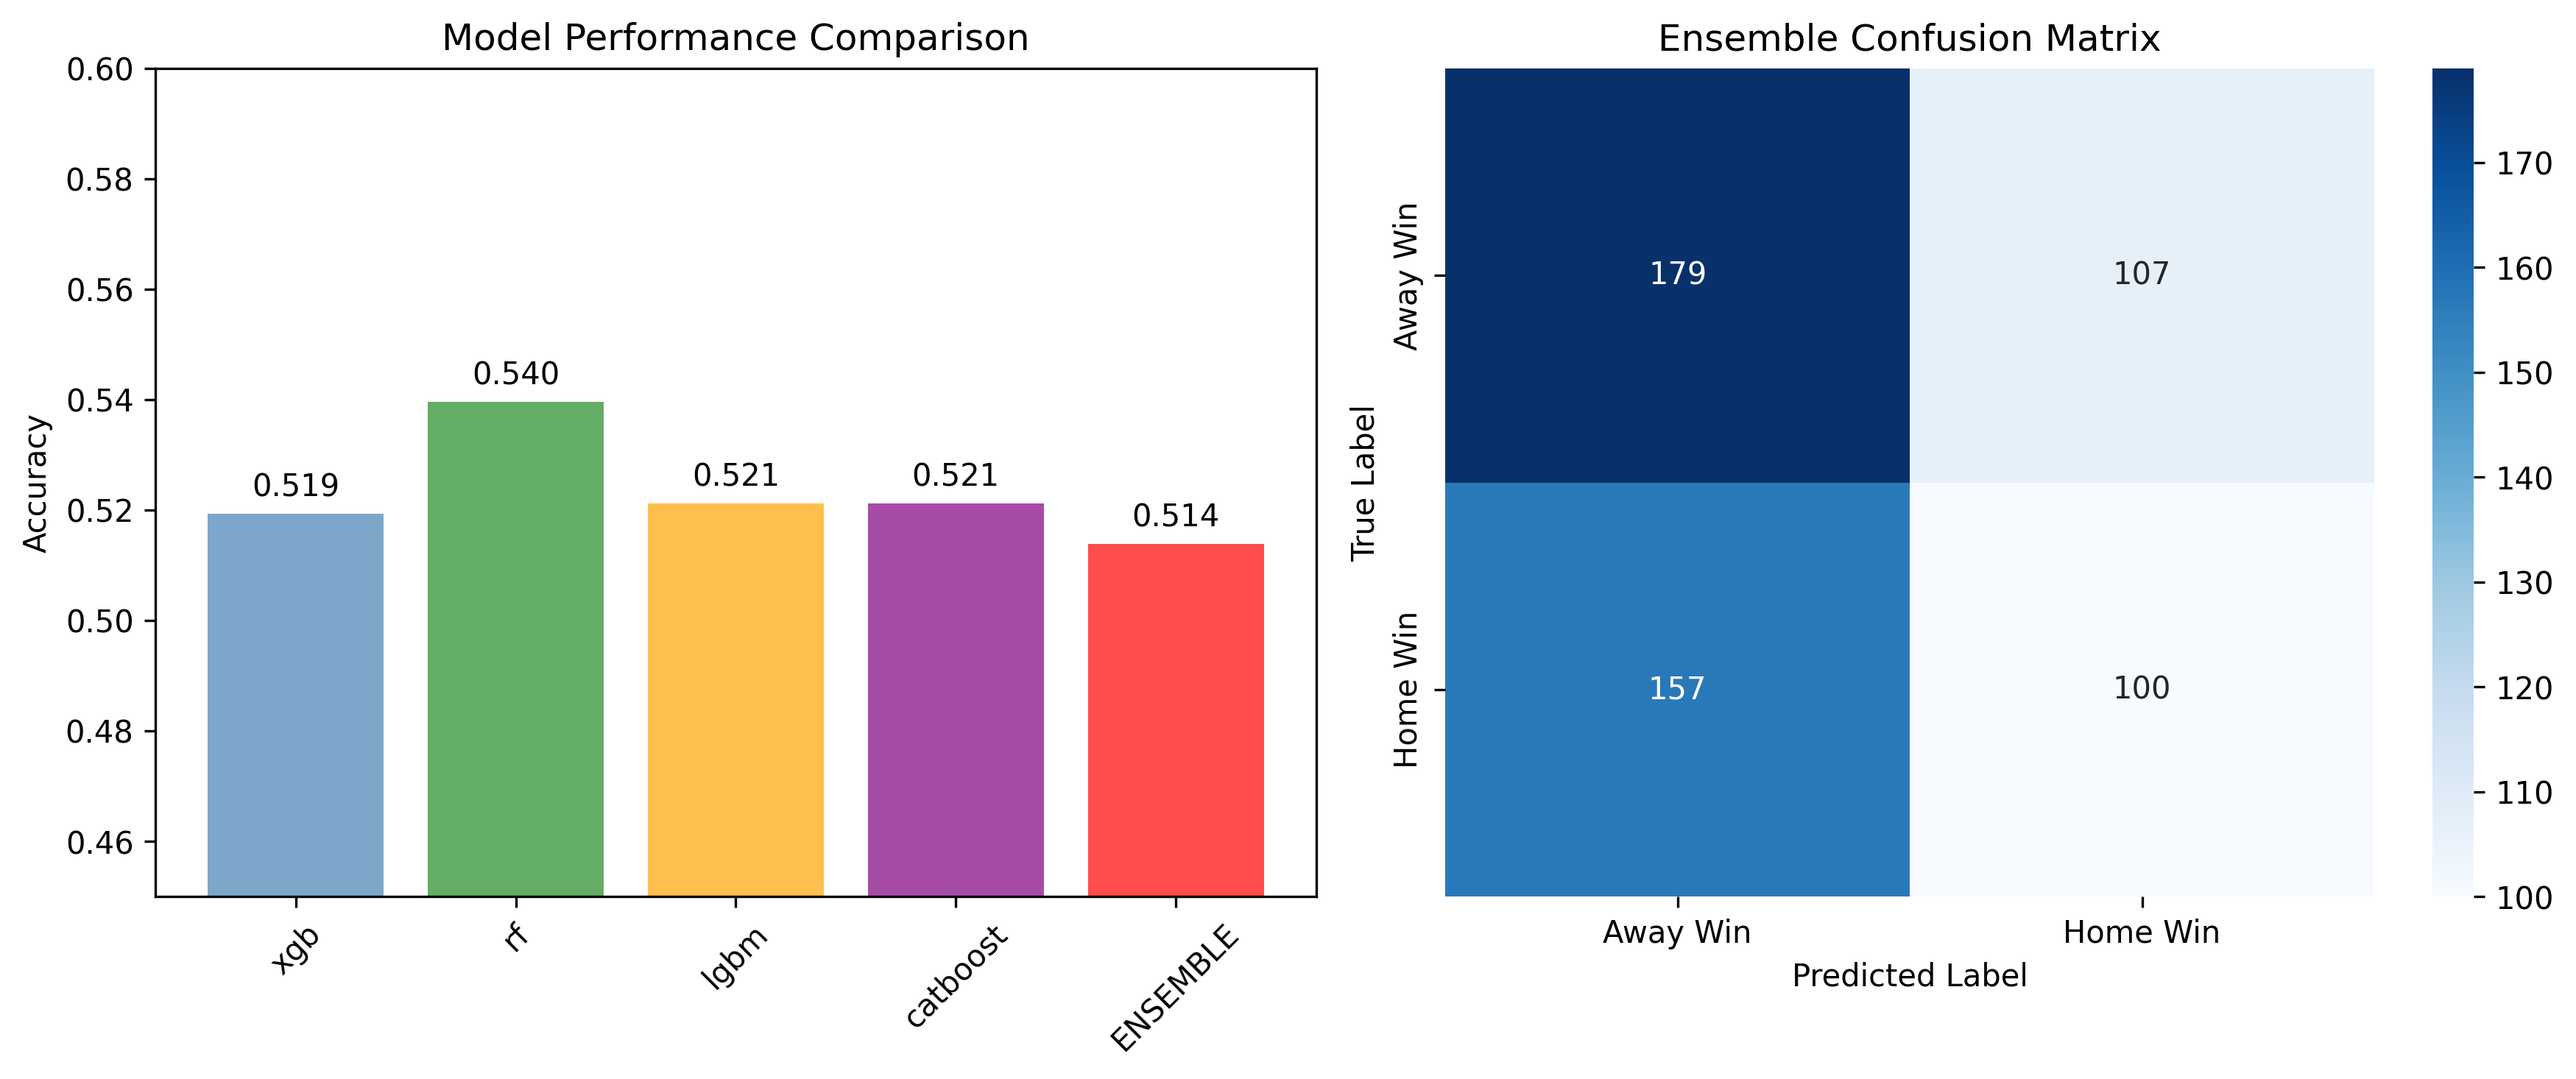
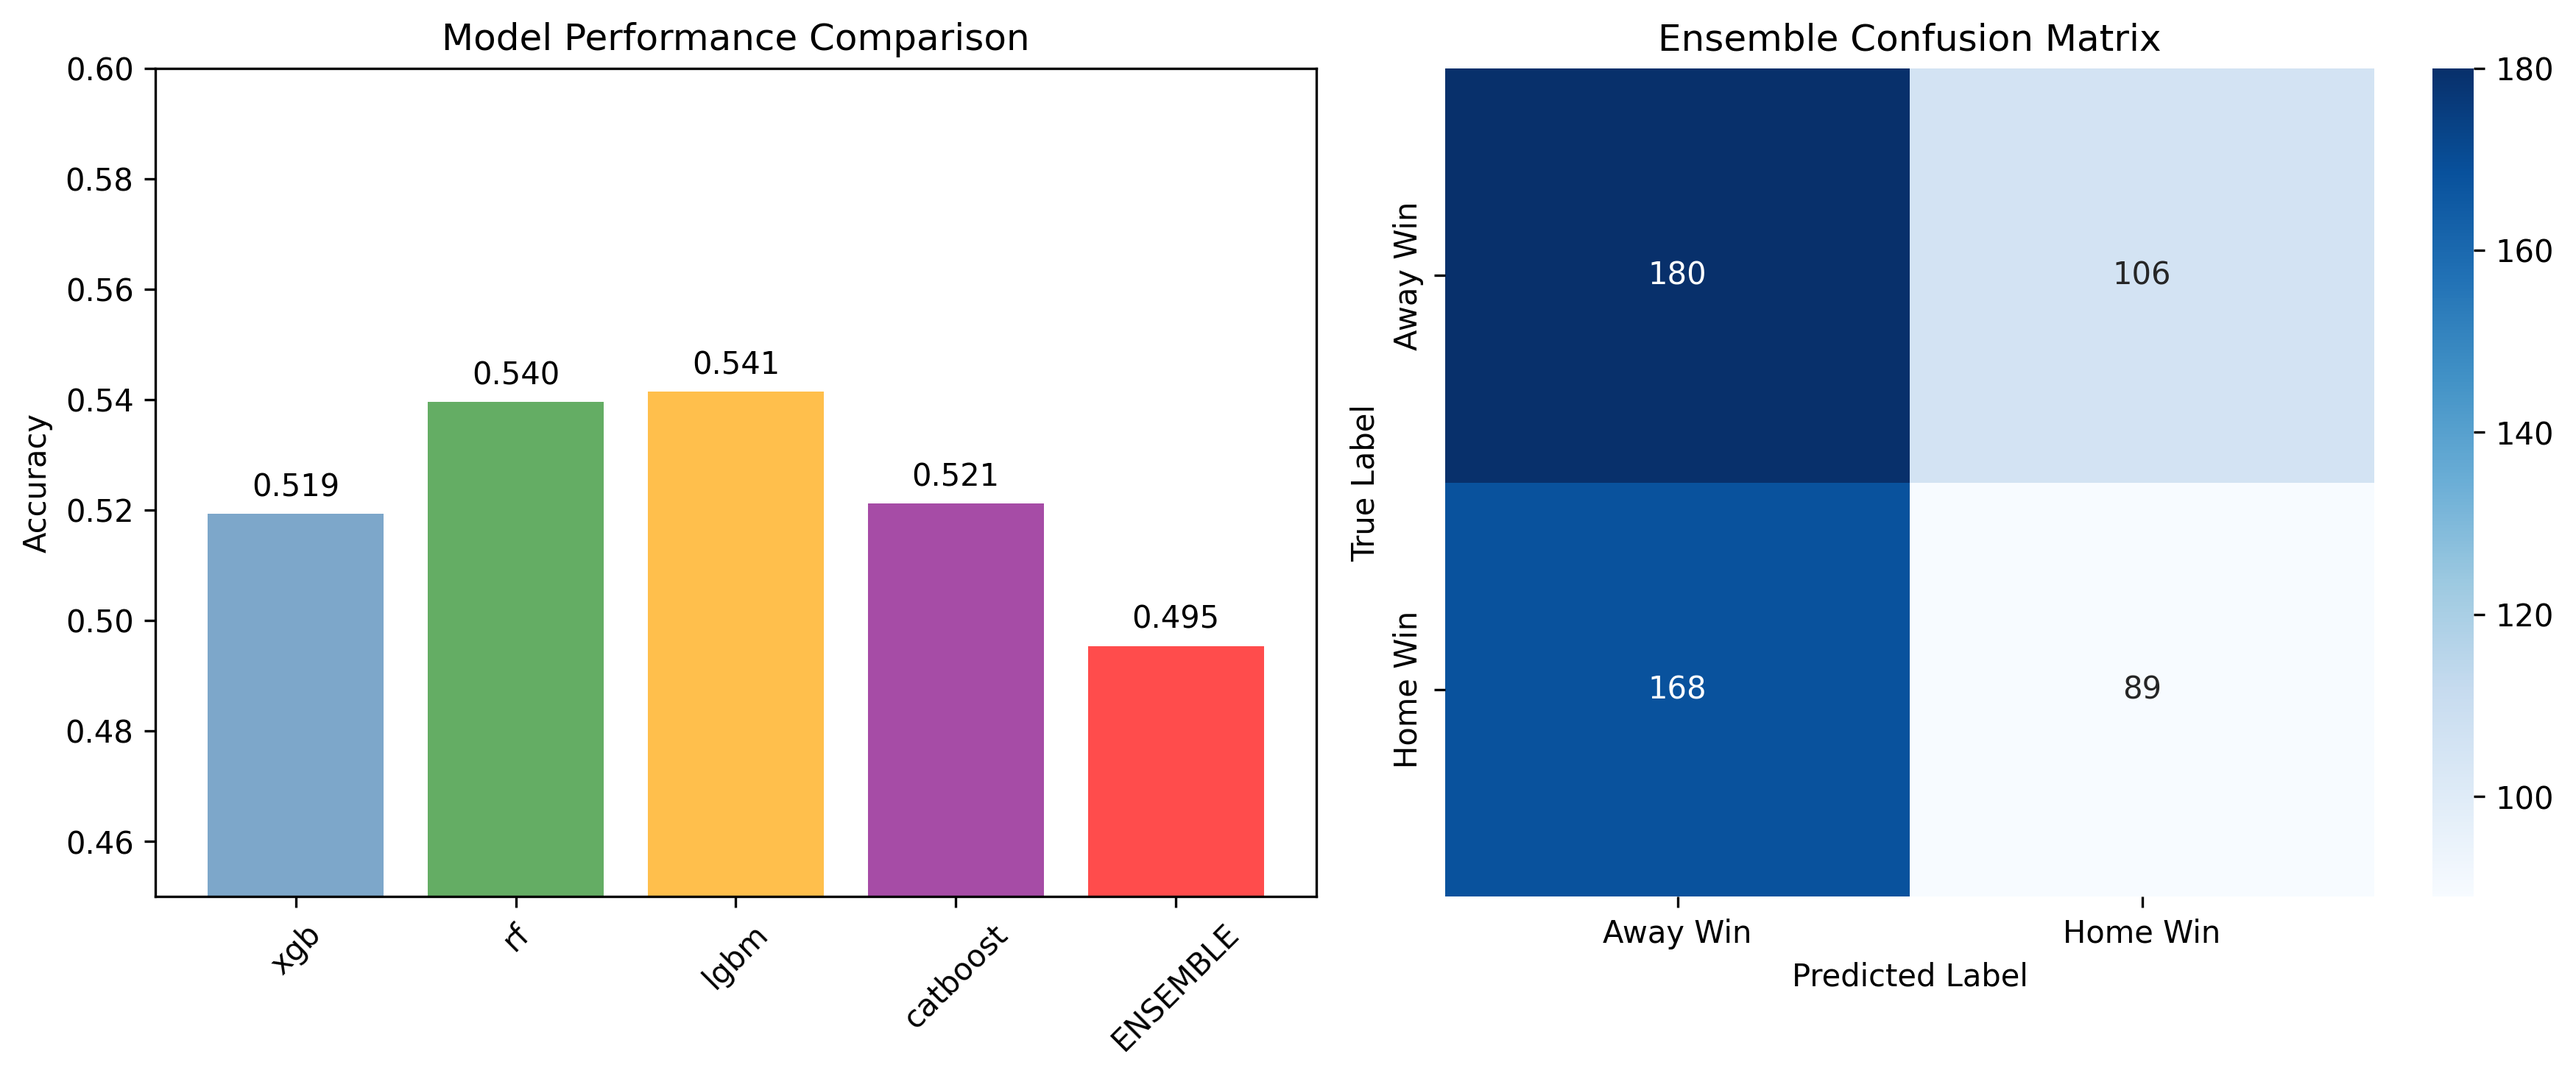
Improved LGBM model

diff --git a/scripts/model_scripts/lgbm_train.py b/scripts/model_scripts/lgbm_train.py
@@ -36,7 +36,7 @@ params = {
     "metric": "binary_logloss",
     "boosting_type": "gbdt",
     "learning_rate": 0.1,
-    "num_leaves": 31,
+    "num_leaves": 16,
     "verbose": -1,
 }
 lgb_model = lgb.train(params, lgb_train, num_boost_round=100)
